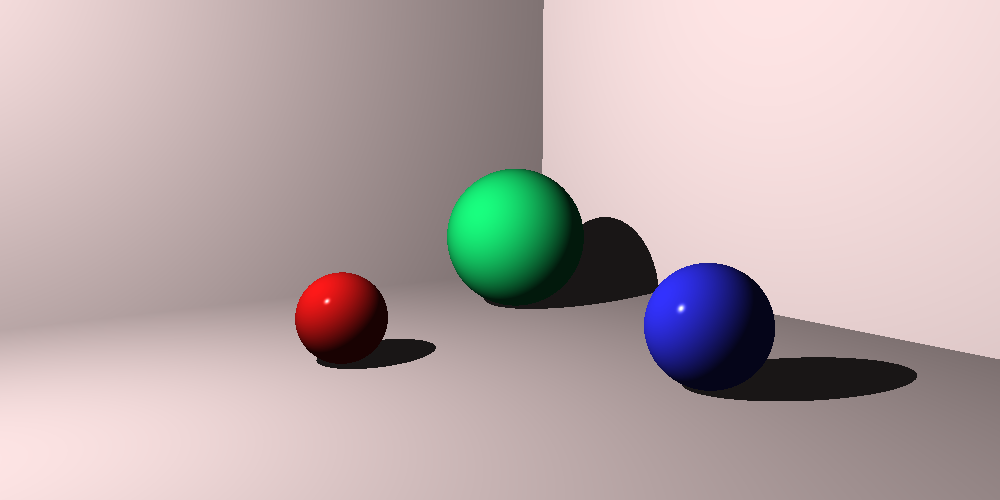
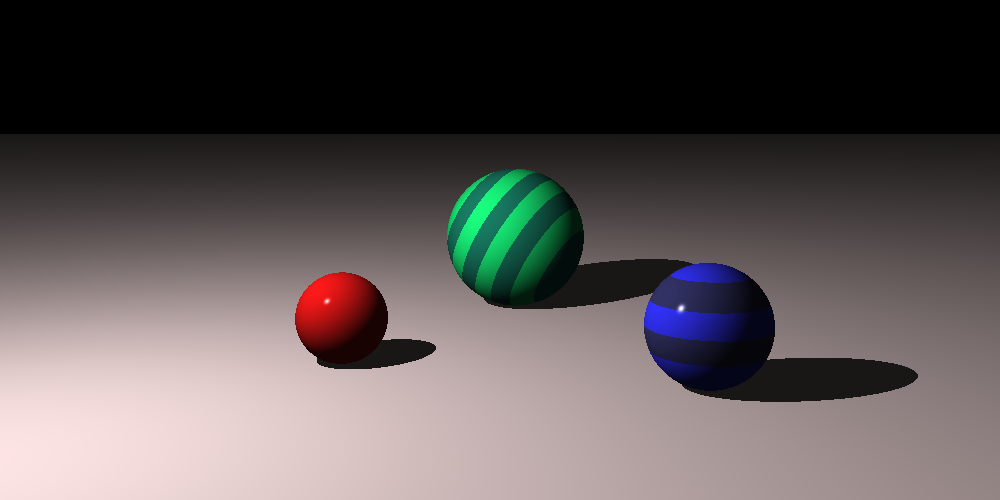
Added patterns

diff --git a/cmd/main.go b/cmd/main.go
@@ -182,22 +182,8 @@ func drawSphereTest() {
 func drawTestScene() {
 	floorMat := shading.DefaultPhong.CopyWithColor(color.NewColor(1, 0.9, 0.9))
 	floorMat.Specular = 0
-	floor := geometry.NewSphere(
-		matrix.Scaling(15, 15, 0.01),
-		floorMat)
-
-	leftWall := geometry.NewSphere(
-		matrix.Translation(0, 10, 0).Mult(
-			matrix.RotationY(-math.Pi/4).Mult(
-				matrix.RotationX(math.Pi/2).Mult(
-					matrix.Scaling(15, 15, 0.01)))),
-		floorMat)
-
-	rightWall := geometry.NewSphere(
-		matrix.Translation(10, 0, 0).Mult(
-			matrix.RotationZ(math.Pi/2).Mult(
-				matrix.RotationX(math.Pi/2).Mult(
-					matrix.Scaling(15, 15, 0.01)))),
+	floor := geometry.NewPlane(
+		matrix.Identity,
 		floorMat)
 
 	middle := geometry.NewSphere(
@@ -208,6 +194,14 @@ func drawTestScene() {
 			Specular:  0.0,
 			Shininess: 10,
 			Color:     color.NewColor(0.1, 1, 0.5),
+			Pattern: shading.NewStripePattern(
+				matrix.Compose(
+					matrix.RotationZ(-math.Pi/6),
+					matrix.RotationY(-math.Pi/6),
+					matrix.ScalingU(.5),
+				),
+				color.NewColor(0.1, 1, 0.5),
+				color.NewColor(0.1, 0.5, 0.4)),
 		})
 
 	left := geometry.NewSphere(
@@ -228,13 +222,19 @@ func drawTestScene() {
 			Specular:  0.9,
 			Shininess: 200,
 			Color:     color.NewColor(0.2, 0.2, 1),
+			Pattern: shading.NewStripePattern(
+				matrix.Compose(
+					matrix.Translation(0, 0, .25),
+					matrix.RotationY(math.Pi/2),
+					matrix.ScalingU(.5),
+				),
+				color.NewColor(0.2, 0.2, 1),
+				color.NewColor(0.2, 0.2, 0.4)),
 		})
 
 	w := &scene.World{
 		Geometry: []geometry.Primitive{
 			floor,
-			leftWall,
-			rightWall,
 			middle,
 			left,
 			right,

diff --git a/shading/stripe_pattern_test.go b/shading/stripe_pattern_test.go
@@ -1,0 +1,51 @@
+package shading
+
+import (
+	"testing"
+
+	"github.com/stretchr/testify/assert"
+
+	"github.com/Henelik/tricaster/tuple"
+
+	"github.com/Henelik/tricaster/color"
+)
+
+func TestStripePattern_Process(t *testing.T) {
+	p := NewStripePattern(nil, color.White, color.Black)
+	testCases := []struct {
+		name string
+		pos  *tuple.Tuple
+		want *color.Color
+	}{
+		{
+			name: "A stripe pattern is constant in y",
+			pos:  tuple.NewPoint(0, 2, 0),
+			want: color.White,
+		},
+		{
+			name: "A stripe pattern is constant in z",
+			pos:  tuple.NewPoint(0, 0, 2),
+			want: color.White,
+		},
+		{
+			name: "A stripe pattern is white at 0 x",
+			pos:  tuple.NewPoint(0, 0, 0),
+			want: color.White,
+		},
+		{
+			name: "A stripe pattern is black at 1 x",
+			pos:  tuple.NewPoint(1, 0, 0),
+			want: color.Black,
+		},
+		{
+			name: "A stripe pattern alternates back to white at 2 x",
+			pos:  tuple.NewPoint(2, 0, 0),
+			want: color.White,
+		},
+	}
+	for _, tc := range testCases {
+		t.Run(tc.name, func(t *testing.T) {
+			assert.Equal(t, tc.want, p.Process(tc.pos))
+		})
+	}
+}

diff --git a/scene/camera_test.go b/scene/camera_test.go
@@ -48,22 +48,8 @@ func BenchmarkRender(b *testing.B) {
 	var canv *canvas.Canvas
 	floorMat := shading.DefaultPhong.CopyWithColor(color.NewColor(1, 0.9, 0.9))
 	floorMat.Specular = 0
-	floor := geometry.NewSphere(
-		matrix.Scaling(15, 15, 0.01),
-		floorMat)
-
-	leftWall := geometry.NewSphere(
-		matrix.Translation(0, 10, 0).Mult(
-			matrix.RotationY(-math.Pi/4).Mult(
-				matrix.RotationX(math.Pi/2).Mult(
-					matrix.Scaling(15, 15, 0.01)))),
-		floorMat)
-
-	rightWall := geometry.NewSphere(
-		matrix.Translation(10, 0, 0).Mult(
-			matrix.RotationZ(math.Pi/2).Mult(
-				matrix.RotationX(math.Pi/2).Mult(
-					matrix.Scaling(15, 15, 0.01)))),
+	floor := geometry.NewPlane(
+		matrix.Identity,
 		floorMat)
 
 	middle := geometry.NewSphere(
@@ -99,8 +85,6 @@ func BenchmarkRender(b *testing.B) {
 	w := &World{
 		Geometry: []geometry.Primitive{
 			floor,
-			leftWall,
-			rightWall,
 			middle,
 			left,
 			right,

diff --git a/shading/stripe_pattern.go b/shading/stripe_pattern.go
@@ -1,0 +1,41 @@
+package shading
+
+import (
+	"github.com/Henelik/tricaster/color"
+	"github.com/Henelik/tricaster/matrix"
+	"github.com/Henelik/tricaster/tuple"
+	"github.com/Henelik/tricaster/util"
+)
+
+type StripePattern struct {
+	m      *matrix.Matrix
+	im     *matrix.Matrix
+	Colors []*color.Color
+}
+
+func NewStripePattern(m *matrix.Matrix, cs ...*color.Color) *StripePattern {
+	result := &StripePattern{
+		m:      matrix.Identity,
+		im:     matrix.Identity,
+		Colors: cs,
+	}
+	if m != nil {
+		result.m = m
+		result.im = m.Inverse()
+	}
+	return result
+}
+
+func (p *StripePattern) SetMatrix(m *matrix.Matrix) {
+	p.m = m
+	p.im = m.Inverse()
+}
+
+func (p *StripePattern) GetMatrix() *matrix.Matrix {
+	return p.m
+}
+
+func (p *StripePattern) Process(pos *tuple.Tuple) *color.Color {
+	tpos := p.im.MultTuple(pos)
+	return p.Colors[util.AbsInt(int(tpos.X)%len(p.Colors))]
+}

diff --git a/shading/phong.go b/shading/phong.go
@@ -20,14 +20,21 @@ type PhongMat struct {
 	Diffuse   float64
 	Specular  float64
 	Shininess float64
-	Color     *color.Color
+	Color     *color.Color // used as a fallback if there is no pattern
+	Pattern   Pattern
 }
 
 func (m PhongMat) Lighting(light *PointLight, pos, eyeV, normalV *tuple.Tuple, inShadow bool) *color.Color {
-	if inShadow {
-		return m.Color.MultCol(light.Color).MultF(m.Ambient)
+	var col *color.Color
+	if m.Pattern != nil {
+		col = m.Pattern.Process(pos)
+	} else {
+		col = m.Color
 	}
-	effectiveColor := m.Color.MultCol(light.Color)
+	if inShadow {
+		return col.MultCol(light.Color).MultF(m.Ambient)
+	}
+	effectiveColor := col.MultCol(light.Color)
 	lightV := light.Pos.Sub(pos).Norm()
 	ambient := effectiveColor.MultF(m.Ambient)
 	// light_dot_normal represents the cosine of the angle between the

diff --git a/shading/pattern.go b/shading/pattern.go
@@ -1,0 +1,10 @@
+package shading
+
+import (
+	"github.com/Henelik/tricaster/color"
+	"github.com/Henelik/tricaster/tuple"
+)
+
+type Pattern interface {
+	Process(pos *tuple.Tuple) *color.Color
+}

diff --git a/util/float_math.go b/util/float_math.go
@@ -41,3 +41,10 @@ func MinInt(a, b int) int {
 	}
 	return b
 }
+
+func AbsInt(n int) int {
+	if n < 0 {
+		return -n
+	}
+	return n
+}
